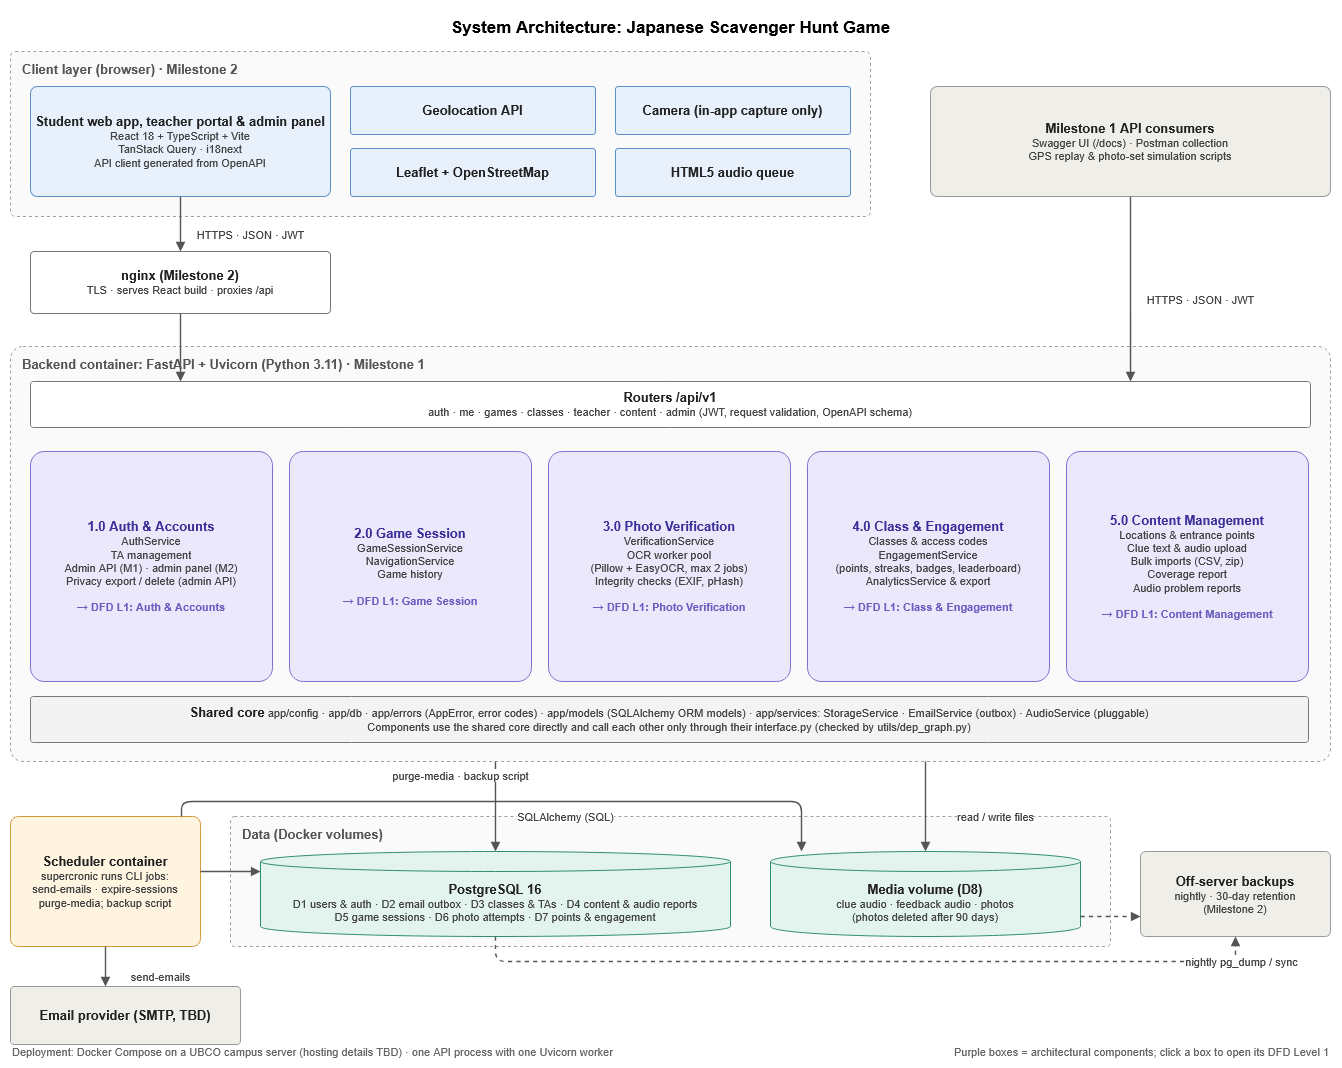
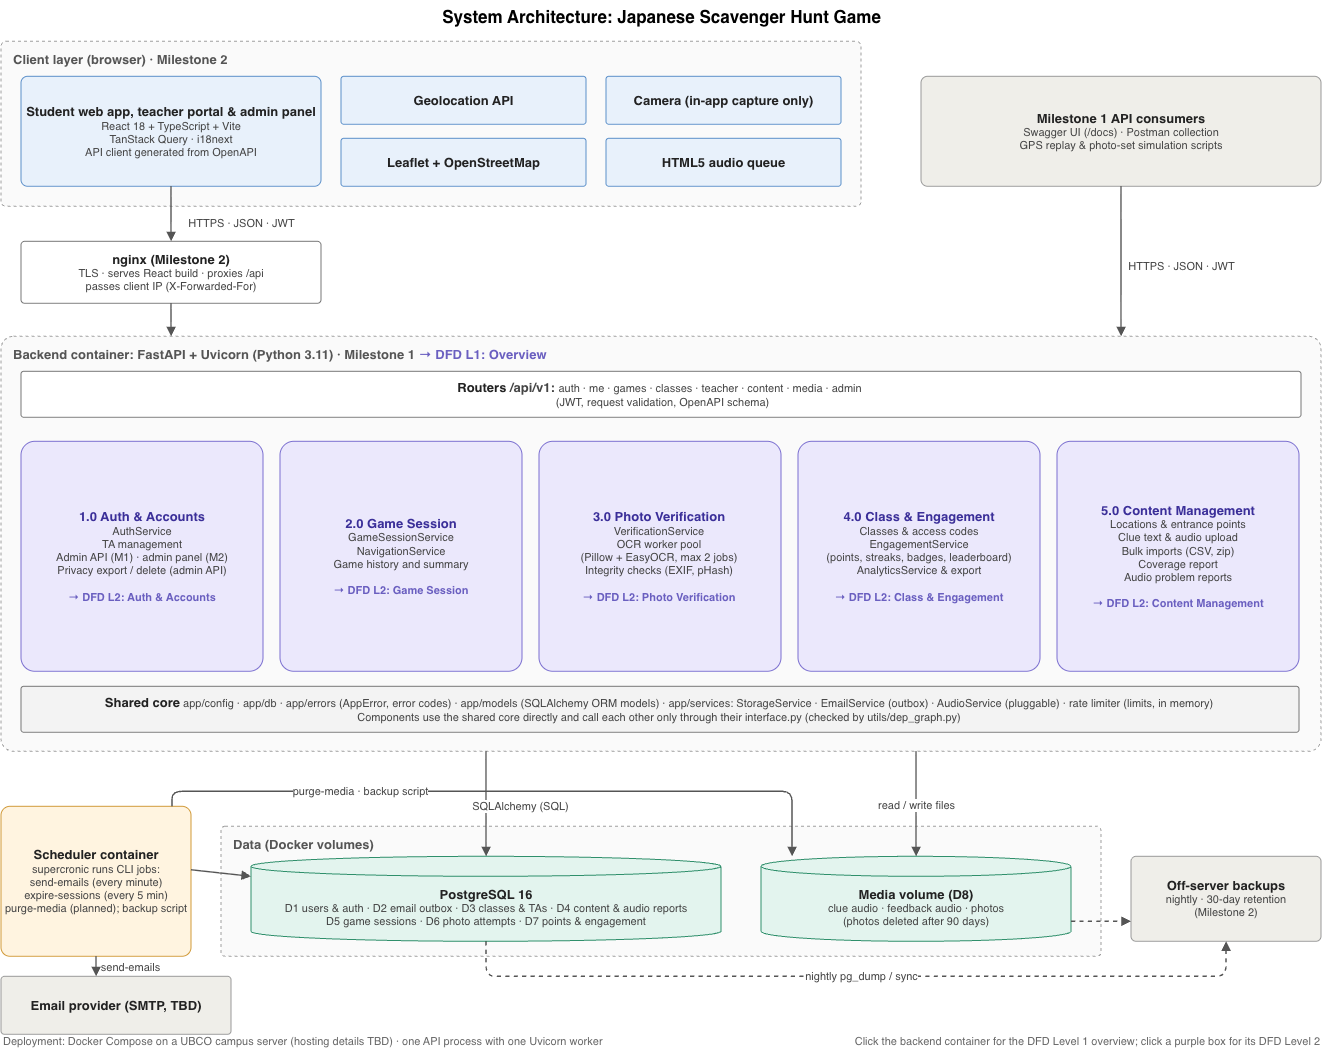
docs: add week 11 team log and the updated diagrams

diff --git a/logs/team/week-11.md b/logs/team/week-11.md
@@ -1,0 +1,107 @@
+# Week 11 Team Log (Nov. 16 - Nov. 22)
+
+Authors: Mia Kuang
+
+## Goal
+
+This week, we decided to focus on merging the stacks left open in week 10, with the goal of running the client demo on the real backend on Nov 19. The stacks were photo verification (A10), streaks and challenges (A13), the class leaderboard (A14), class analytics (A16), content from the database (A20) and the account routes (A22, A24). We also planned to remove repeated code and update the DFDs and the system architecture (observed: week 10 team log).
+
+## Work distribution
+
+Only PRs merged into `origin/main` between Nov 16 and Nov 22 count as merged. Details are in each person's individual log.
+
+- **Mia** focused on rate limits (#322), class staff checks on the routes (#378), the A4 response scan (#71) and CI.
+  - *Merged:* 11 PRs, 50 files, +1,087/-657: #375, #377, #379, #380, #383, #388, #390, #392, #394, #396 and #399. See `logs/MiaKuang/week-11.md`.
+  - *Not merged yet:* #401, #402, #403, #404, #442, #446 and #451.
+- **Eddy** focused on photo verification (A10) and reading content from the database (A20).
+  - *Merged:* 17 PRs, 81 files, +4,369/-825: #301, #303, #321, #341, #342, #344, #346, #374, #376, #386, #387, #391, #397, #398, #405, #408 and #409.
+  - *Not merged yet:* #296 and #304.
+- **Fabiha** focused on streaks and challenges (A13), the class leaderboard (A14) and class analytics (A16).
+  - *Merged:* 14 PRs, 60 files, +4,838/-144: #356, #357, #359, #360, #362, #363, #365, #367, #369, #370, #371, #372, #382 and #384.
+  - *Not merged yet:* 14 PRs for the A5, A6, A12, A16 and A17 follow-ups.
+- **Kaedyn** focused on the account routes (A22, A24) and the admin API (A27).
+  - *Merged:* 2 PRs, 7 files, +458/-11: #323 (logout) and #324 (profile).
+  - *Not merged yet:* #325, #410, #415, #439, #440 and #445.
+
+We considered two other workload distributions (Mia considered). First, #322 could have stayed with Kaedyn, who wrote the first rate limit. Mia took it because Kaedyn's admin API (A27) was already late. Second, Mia could have taken over A21 (#77) as well, since Eddy's photo purge (#94) is blocked on it. We kept A21 with Kaedyn and asked him to do it first. All of his remaining work must be merged, not just opened, by Nov 29. Anything not merged by then moves to the rest of the team. If that happens, we will all talk to the professor at office hours on Dec 3 about how the work is split.
+
+## Client demo branch (not on main)
+
+Mia and Eddy built a small web app for the Nov 19 client demo on `demo/client-demo`. It is not merged and doesn't count above: M1 is backend only, and the real web app comes in M2. It has 19 commits, 15 files and +2,801 lines (observed: branch log).
+
+- **Mia** wrote the app shell, the API client and the student and teacher screens: login, joining a class, the game, history, the leaderboard and class analytics. She also added the class switcher, every badge with locked ones dimmed, and analytics labelled by room.
+- **Eddy** wrote the photo module: taking or uploading a photo and showing the result.
+
+The demo ran on the real backend from Mia's machine, and we played it on our phones. We will reuse the branch with the latest main for the final presentation.
+
+## Goal evaluation
+
+Based on the merged PRs on main, we met most of the goal (observed: main log). 44 PRs were merged: 17 by Eddy, 14 by Fabiha, 11 by Mia and 2 by Kaedyn.
+
+- **Met:** a game can now finish a location from a photo, with content read from the database. Streaks, daily challenges, the class leaderboard and class analytics are on main. #322 (rate limits) and #71 (A4) are closed. The Nov 19 client demo ran on this code (see above).
+- **Not met:** the admin API (A27) and change password are still open. Most of the repeated-code refactors are open too.
+- **Challenges:** most stacks merged on the evening of Nov 17. Three of us reviewed and merged them together, just before the demo. Reviews of the newer stacks came on Nov 21 and 22.
+- **Over the size limit:** #372 (participation export) changed 565 lines. The export and its tests landed in one PR (inferred from its diff).
+- **Files over 500 lines:** `api/v1/classes.py` grew from 470 to 745 lines with the A16 routes. `engagement/interface.py` (726), `tests/backend/conftest.py` (686) and `tests/backend/test_engagement_interface.py` (812) were already over and grew. Each holds one kind of code for a whole component. Splitting them by feature is a follow-up.
+- **Plan for next week:** merge the open PRs early in the week, then the work in Next week.
+- **Limitation:** two merged PRs don't show how far Kaedyn's work is behind. Sign-in (A2) is still open from M1-1, due Oct 11. A27 was due Oct 25, and its first PRs opened on Nov 19 (observed: PR list). He has merged 15 PRs into main this term, against 39 to 85 for each of the rest of us.
+
+## Code quality
+
+- **Similar logic implemented multiple times:** Mia ran a duplicate-code scan on main and checked it by hand (#400). It found repeated game errors, class name checks and staff lookups. Therefore, Mia opened #404 and #446, which are not merged yet. On main, #388 removed four copies of the class role query. Eddy's #386 lets the photo route reuse the game actions' runner instead of copying it (DRY).
+- **Many dependencies between modules:** `utils/dep_graph.py --check` passes at the end of the week (observed: 88 modules, 371 import edges, no rule broken). The photo route links game and verification through their interfaces only.
+- **Changes in one component require changes elsewhere:** only #388 changed two components (observed: files changed per PR). It moved the role checks out of four engagement services into one accounts dependency. Engagement can't import accounts, so the check had to move to the routes.
+
+Now, the team can confirm that the merged code has no new repeated logic and no rule-breaking dependencies. The remaining duplication is tracked in #400 and #354.
+
+## DFD
+
+We updated the DFDs this week, based on main as of Nov 19.
+
+- **Level 0 (context):** **Updated.** The Scheduler is no longer an external entity, because it runs inside our system. Content Manager is now labelled as a staff account with content rights, not a fourth account type.
+- **Level 1 (overview):** **New.** It shows the five components, the flows between them, the stores D1 to D8 and the scheduler container. Its flows were checked against every Level 2 diagram.
+- **Level 2:** the component diagrams were renamed from Level 1 to Level 2.
+  - 1.0 Auth & Accounts: 1.5 Send queued emails **Updated** (runs every minute; skips a reset email whose link was already used). Other processes (not changed).
+  - 2.0 Game Session: 2.2 Serve current location and 2.5 Control session **Updated** (quit and a skipped last location return the game summary). 2.8 Expire idle sessions **Updated** (every 5 minutes). Other processes (not changed).
+  - 3.0 Photo Verification: 3.7 Purge old photos **Updated** (marked not yet scheduled). Other processes (not changed).
+  - 4.0 Class & Engagement: 4.6 Report engagement **Updated** (sends a game's level and badges to the game summary). Other processes (not changed).
+  - 5.0 Content Management: **Updated** (the Content Manager entity is labelled as a staff account with content rights). Its processes (not changed).
+
+![DFD Level 0](img/dfd_level0_context.png)
+
+![DFD Level 1 overview](img/dfd_level1_overview.png)
+
+![1.0 Auth & Accounts](img/dfd_level2_auth_accounts.png)
+![2.0 Game Session](img/dfd_level2_game_session.png)
+![3.0 Photo Verification](img/dfd_level2_photo_verification.png)
+![4.0 Class & Engagement](img/dfd_level2_class_engagement.png)
+![5.0 Content Management](img/dfd_level2_content_management.png)
+
+We considered one alternative data flow (AI-suggested): the overview could show every store read by each component. We left the export and anonymise reads out and listed them in a note, so the overview stays readable.
+
+## System architecture
+
+We updated the system architecture diagram this week.
+
+![System architecture](img/system_architecture.png)
+
+- **Rate limiter:** the shared core now lists "rate limiter (limits, in memory)" instead of slowapi (#392). slowapi never limited any `/api/v1` route on FastAPI 0.142, and its 429 handler used slowapi's private API. The counters live in the API process, which matches our one-worker deployment.
+- **nginx:** the box now says it passes the client IP in `X-Forwarded-For` (#396). The per-IP limits need the real client address behind the proxy.
+- **Links:** each component box now opens its Level 2 diagram, and the backend container opens the Level 1 overview.
+- **Alternative components:** we could have kept slowapi and patched its middleware (AI-suggested). We dropped it because the fix would still depend on its private API.
+- **Alternative dependencies:** the counters could live in Redis, so several API workers share them (AI-suggested). We kept them in memory because the spec runs one worker, and Redis would add a container.
+
+## Collaboration process
+
+We changed our process in two ways. First, we reviewed and merged the waiting stacks together on the evening of Nov 17. Second, CI can now run several jobs on one VM (#377), so runs don't queue behind each other.
+
+The reason was the backlog. Most stacks had waited a week for reviews and had to merge before the demo. We considered keeping one reviewer per stack (AI-suggested). We dropped it because one person couldn't review every stack in time.
+
+## Next week
+
+We will:
+
+- **Merge** the open follow-ups and the admin API early in the week, so fixes have time to land.
+- **Finish** the remaining account work, starting with A21, by Nov 29 (see Work distribution).
+- **Act on feedback:** Basic games stay in one building (client), and clue plays are recorded (professor).
+- **Update** the diagrams for the new features, and keep the README in step with main.
